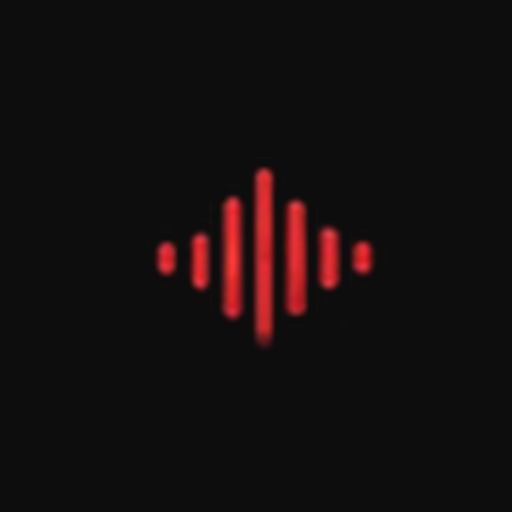
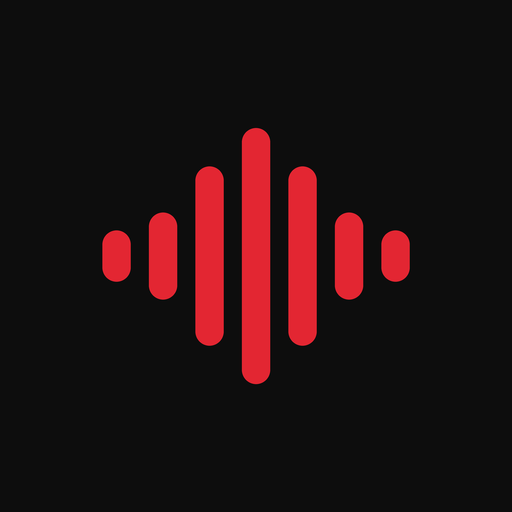
Publie le client de Charts.

Changed region(s): [[0.1875, 0.25, 0.8125, 0.75]]

diff --git a/prototypes/js/pwa-install.js b/prototypes/js/pwa-install.js
@@ -47,7 +47,7 @@
     if (!document.querySelector('link[rel="apple-touch-icon"]')) {
       var apple = document.createElement("link");
       apple.rel = "apple-touch-icon";
-      apple.href = "img/apple-touch-icon.png";
+      apple.href = "img/apple-touch-icon.png?v=2";
       document.head.appendChild(apple);
     }
     if (!document.querySelector('meta[name="apple-mobile-web-app-capable"]')) {
@@ -128,9 +128,8 @@
     dlg.className = "pwa-install";
     dlg.setAttribute("aria-labelledby", "pwaInstallTitle");
     dlg.innerHTML =
-      '<img class="pwa-install-icon" src="img/pwa-192.png" alt="">' +
-      '<p id="pwaInstallTitle">Ajouter Charts sur ton téléphone ?</p>' +
-      '<p class="pwa-install-sub">Une icône Charts s’installe dans tes applications. Un tap ouvre l’app.</p>' +
+      '<img class="pwa-install-icon" src="img/charts-192.png" alt="">' +
+      '<p id="pwaInstallTitle">Ajouter CHARTS sur ton téléphone ?</p>' +
       '<div class="pwa-install-actions">' +
         '<button type="button" data-pwa="yes">Oui</button>' +
         '<button type="button" data-pwa="no">Non</button>' +

diff --git a/prototypes/fantasy.html b/prototypes/fantasy.html
@@ -6,7 +6,7 @@
 <title>Charts — Arena</title>
 <link rel="icon" type="image/png" href="img/favicon.png?v=2">
 <link rel="manifest" href="manifest.json">
-<link rel="apple-touch-icon" href="img/apple-touch-icon.png">
+<link rel="apple-touch-icon" href="img/apple-touch-icon.png?v=2">
 <meta name="apple-mobile-web-app-capable" content="yes">
 <meta name="mobile-web-app-capable" content="yes">
 <meta name="apple-mobile-web-app-title" content="Charts">
@@ -998,6 +998,6 @@ setInterval(() => {
 document.addEventListener("charts:credits-changed", () => refreshCredits());
 </script>
 <script src="js/mobile-ui.js?v=23"></script>
-<script src="js/pwa-install.js?v=1"></script>
+<script src="js/pwa-install.js?v=2"></script>
 </body>
 </html>

diff --git a/prototypes/fantasy-lineup.html b/prototypes/fantasy-lineup.html
@@ -6,7 +6,7 @@
 <title>Charts — Arena</title>
 <link rel="icon" type="image/png" href="img/favicon.png?v=2">
 <link rel="manifest" href="manifest.json">
-<link rel="apple-touch-icon" href="img/apple-touch-icon.png">
+<link rel="apple-touch-icon" href="img/apple-touch-icon.png?v=2">
 <meta name="apple-mobile-web-app-capable" content="yes">
 <meta name="mobile-web-app-capable" content="yes">
 <meta name="apple-mobile-web-app-title" content="Charts">
@@ -1713,6 +1713,6 @@ boot();
 document.addEventListener("charts:credits-changed", () => syncUserUI());
 </script>
 <script src="js/mobile-ui.js?v=23"></script>
-<script src="js/pwa-install.js?v=1"></script>
+<script src="js/pwa-install.js?v=2"></script>
 </body>
 </html>

diff --git a/prototypes/classeur.html b/prototypes/classeur.html
@@ -6,7 +6,7 @@
 <title>Charts — Classeur</title>
 <link rel="icon" type="image/png" href="img/favicon.png?v=2">
 <link rel="manifest" href="manifest.json">
-<link rel="apple-touch-icon" href="img/apple-touch-icon.png">
+<link rel="apple-touch-icon" href="img/apple-touch-icon.png?v=2">
 <meta name="apple-mobile-web-app-capable" content="yes">
 <meta name="mobile-web-app-capable" content="yes">
 <meta name="apple-mobile-web-app-title" content="Charts">
@@ -2066,6 +2066,6 @@ document.addEventListener("charts:market", () => {
 });
 </script>
 <script src="js/mobile-ui.js?v=23"></script>
-<script src="js/pwa-install.js?v=1"></script>
+<script src="js/pwa-install.js?v=2"></script>
 </body>
 </html>

diff --git a/prototypes/booster.html b/prototypes/booster.html
@@ -6,7 +6,7 @@
 <title>Charts — Série 1</title>
 <link rel="icon" type="image/png" href="img/favicon.png?v=2">
 <link rel="manifest" href="manifest.json">
-<link rel="apple-touch-icon" href="img/apple-touch-icon.png">
+<link rel="apple-touch-icon" href="img/apple-touch-icon.png?v=2">
 <meta name="apple-mobile-web-app-capable" content="yes">
 <meta name="mobile-web-app-capable" content="yes">
 <meta name="apple-mobile-web-app-title" content="Charts">
@@ -6423,6 +6423,6 @@ document.addEventListener("charts:state", () => {
 });
 </script>
 <script src="js/mobile-ui.js?v=23"></script>
-<script src="js/pwa-install.js?v=1"></script>
+<script src="js/pwa-install.js?v=2"></script>
 </body>
 </html>

diff --git a/prototypes/connexion.html b/prototypes/connexion.html
@@ -6,7 +6,7 @@
 <title>Charts — Connexion</title>
 <link rel="icon" type="image/png" href="img/favicon.png?v=2">
 <link rel="manifest" href="manifest.json">
-<link rel="apple-touch-icon" href="img/apple-touch-icon.png">
+<link rel="apple-touch-icon" href="img/apple-touch-icon.png?v=2">
 <meta name="apple-mobile-web-app-capable" content="yes">
 <meta name="mobile-web-app-capable" content="yes">
 <meta name="apple-mobile-web-app-title" content="Charts">
@@ -358,6 +358,6 @@ $("newPasswordForm").addEventListener("submit", async ev => {
   ChartsAccounts.goApp();
 })();
 </script>
-<script src="js/pwa-install.js?v=1"></script>
+<script src="js/pwa-install.js?v=2"></script>
 </body>
 </html>

diff --git a/prototypes/fantasy-classement.html b/prototypes/fantasy-classement.html
@@ -6,7 +6,7 @@
 <title>Charts — Classement Arena</title>
 <link rel="icon" type="image/png" href="img/favicon.png?v=2">
 <link rel="manifest" href="manifest.json">
-<link rel="apple-touch-icon" href="img/apple-touch-icon.png">
+<link rel="apple-touch-icon" href="img/apple-touch-icon.png?v=2">
 <meta name="apple-mobile-web-app-capable" content="yes">
 <meta name="mobile-web-app-capable" content="yes">
 <meta name="apple-mobile-web-app-title" content="Charts">
@@ -450,6 +450,6 @@ loadActiveUser();
 render();
 </script>
 <script src="js/mobile-ui.js?v=23"></script>
-<script src="js/pwa-install.js?v=1"></script>
+<script src="js/pwa-install.js?v=2"></script>
 </body>
 </html>

diff --git a/prototypes/lobby.html b/prototypes/lobby.html
@@ -6,7 +6,7 @@
 <title>Charts — Lobby</title>
 <link rel="icon" type="image/png" href="img/favicon.png?v=2">
 <link rel="manifest" href="manifest.json">
-<link rel="apple-touch-icon" href="img/apple-touch-icon.png">
+<link rel="apple-touch-icon" href="img/apple-touch-icon.png?v=2">
 <meta name="apple-mobile-web-app-capable" content="yes">
 <meta name="mobile-web-app-capable" content="yes">
 <meta name="apple-mobile-web-app-title" content="Charts">
@@ -808,6 +808,6 @@ if(window.ChartsState){
 }
 </script>
 <script src="js/mobile-ui.js?v=23"></script>
-<script src="js/pwa-install.js?v=1"></script>
+<script src="js/pwa-install.js?v=2"></script>
 </body>
 </html>
